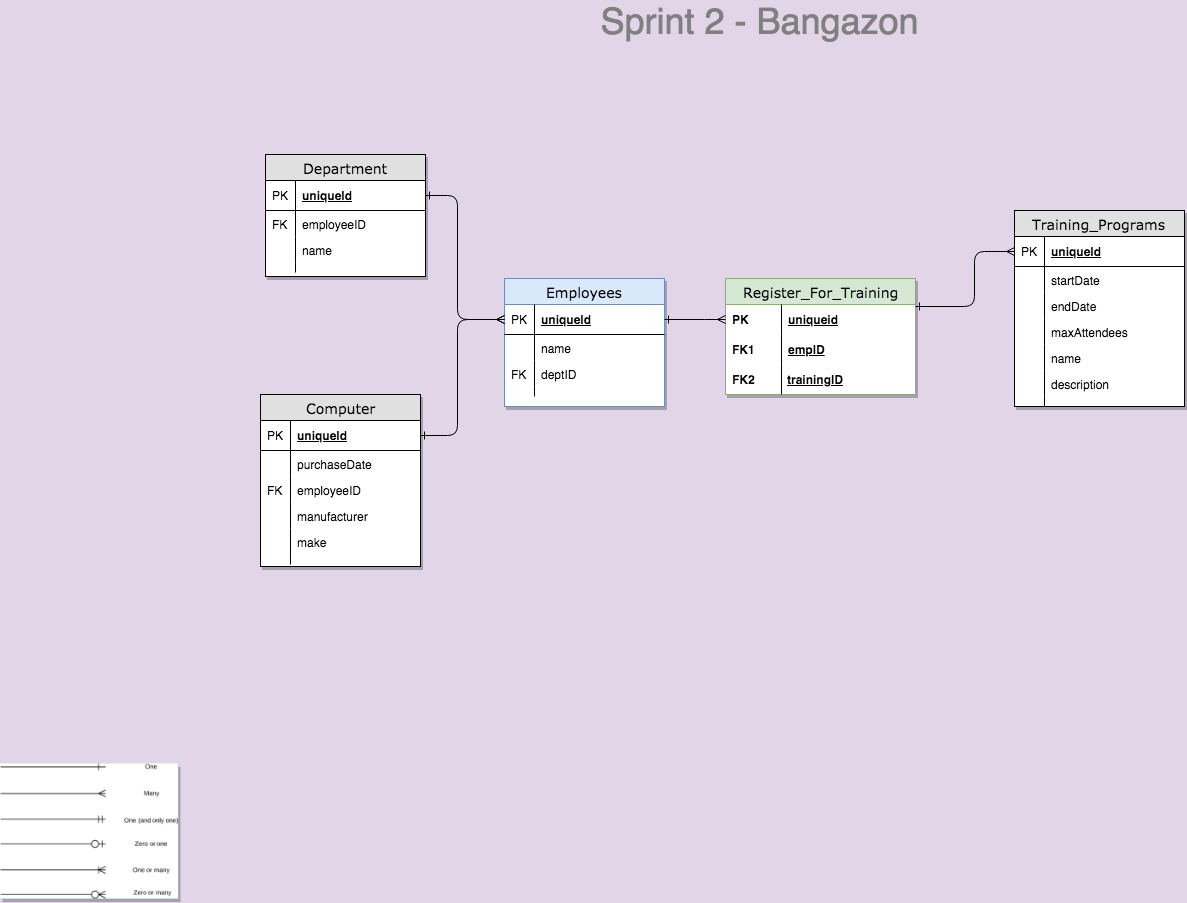
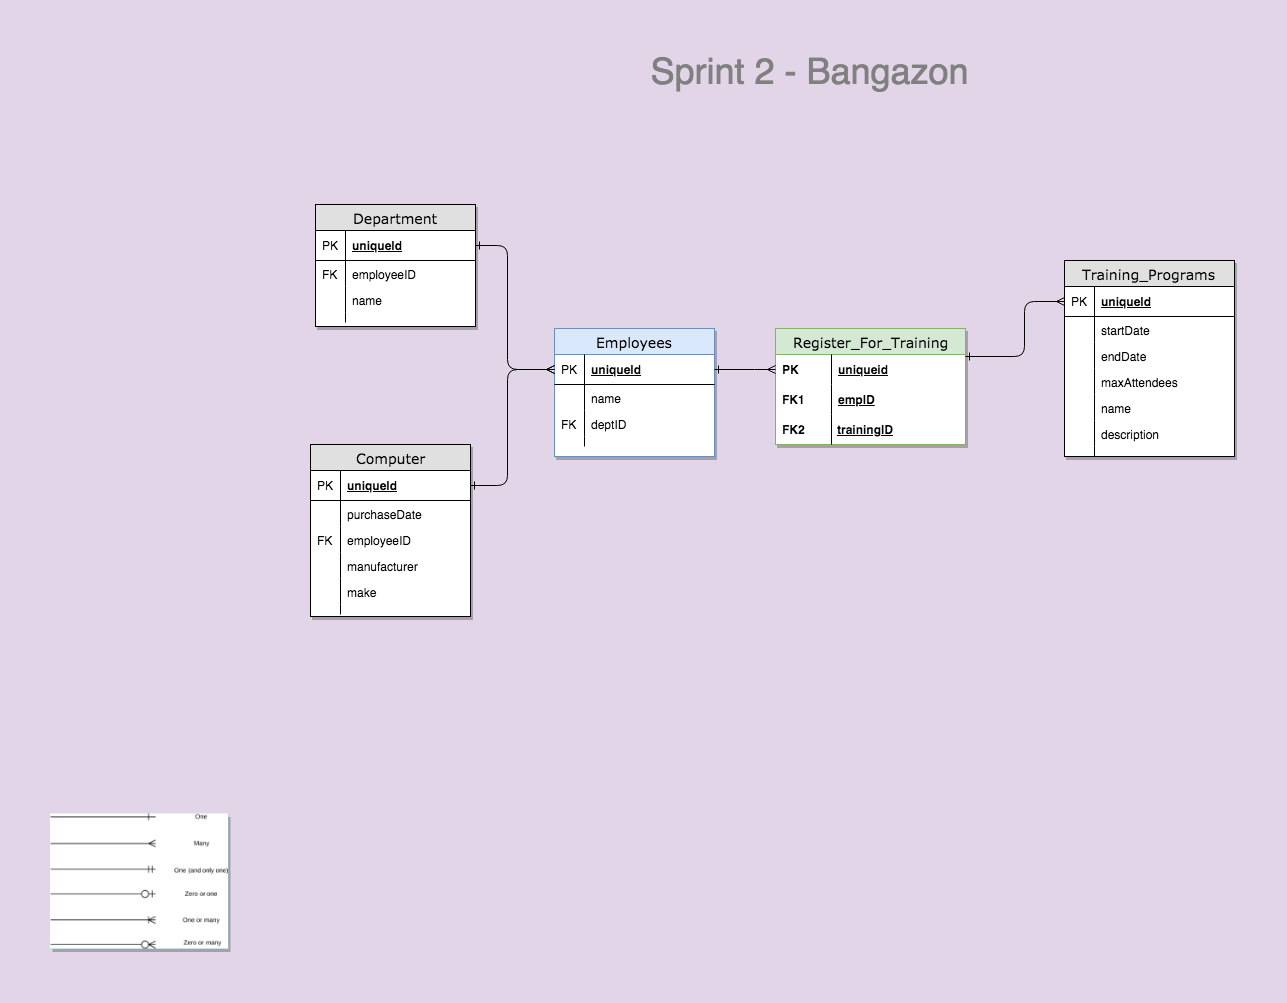
updated ERD

diff --git a/README.md b/README.md
@@ -5,8 +5,7 @@
 ### [NSS](http://nashvillesoftwareschool.com/) Cohort D25
 
 
-![Employee ERD](https://github.com/Hypnotic-Herons/Sprint-2/blob/master/Sprint%202%20ERD.jpgt2/Sprint-2/Sprint2ERD.png)
-
+![Employee ERD](https://github.com/Hypnotic-Herons/Sprint-2/blob/master/Sprint2ERD.png?raw=true)
 
 ## REQUIREMENTS
 1. Using Django framework application, you will be building the initial, open API for a company internal processes website.
